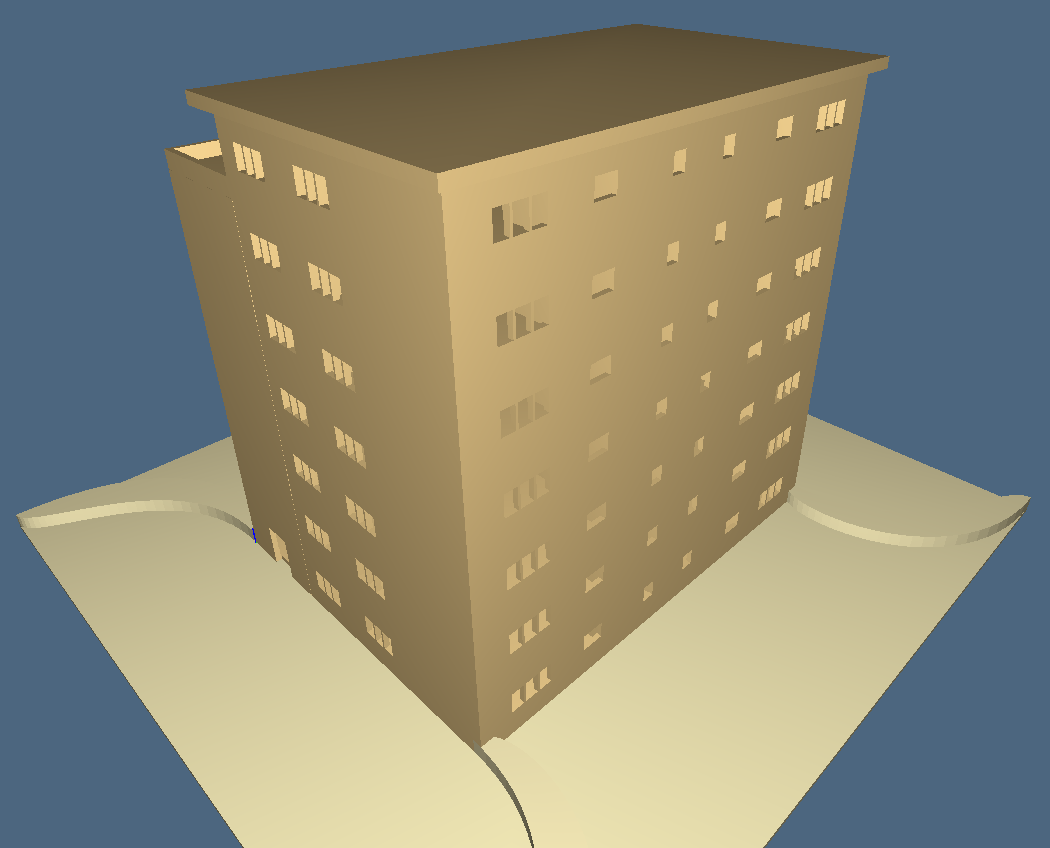
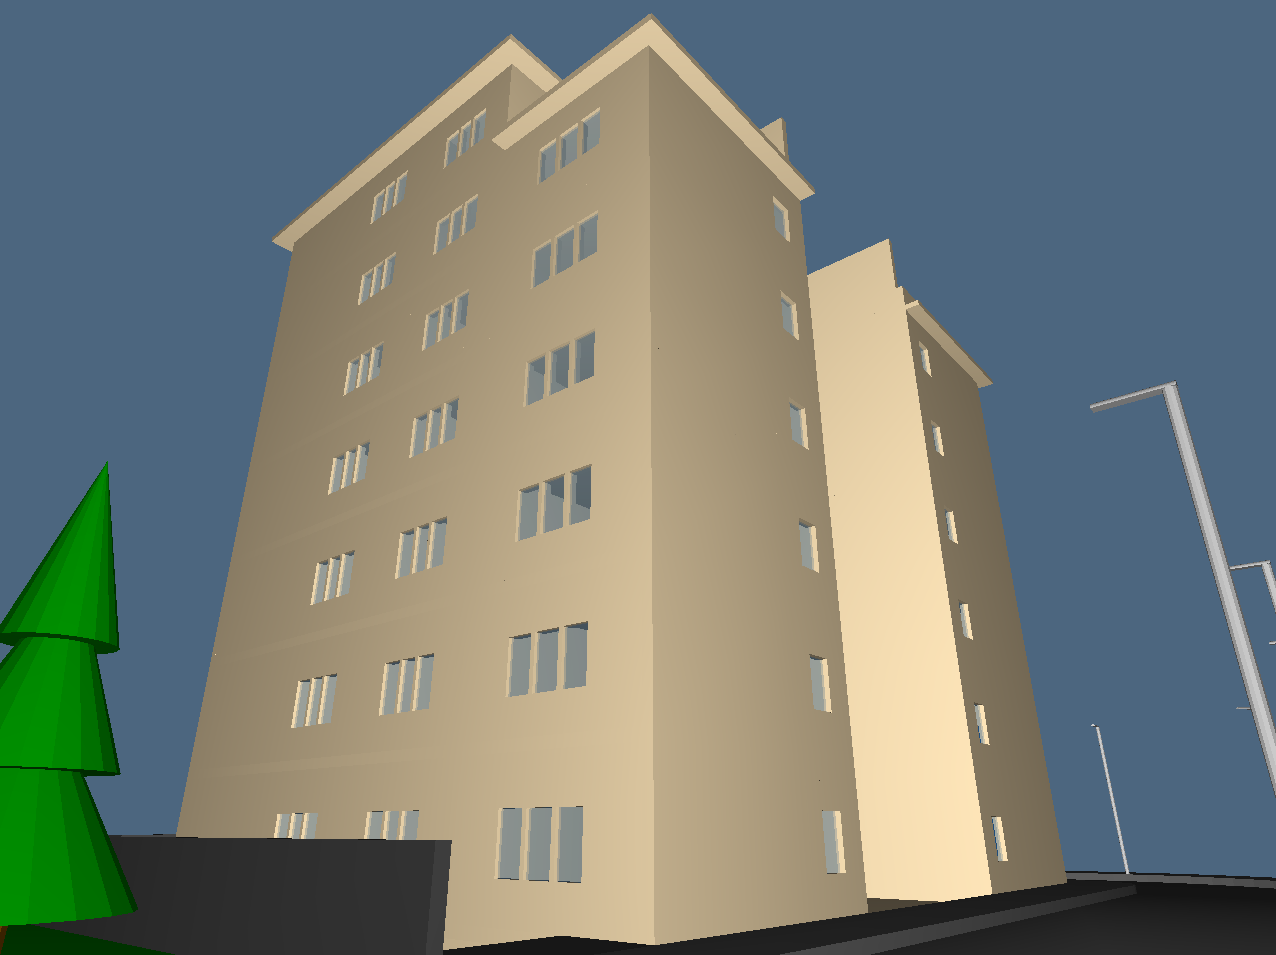
hw3 completed

diff --git a/2014-05-16/index.html b/2014-05-16/index.html
@@ -23,10 +23,11 @@
 			<li>My parents and a meter :)</li>
 		</ul>
 		<h2>Short description</h2>
-		<p style="width:600px;text-align:justify">This third homework is the representation of the place where I live. The first exercise shows only my apartment, with all the rooms, including also the loft (I live at 7th floor). The measurement are as close as possible to reality. The second exercise represents the whole building with all the other apartments along the 7 floors. I added also the elevators to reach each floor.</p>
+		<p style="width:600px;text-align:justify">This third homework is the representation of the place where I live. The first exercise shows only my apartment, with all the rooms, including also the loft (I live at 7th floor). The measurement are as close as possible to reality. The second exercise represents the whole building with all the other apartments along the 7 floors. I added stairs to reach each floor. All around the building I made a street with some lamps. Behind the building there are some trees and grass. At floor 0 I added also some garages.</p>
 		<h2>Images</h2>
-		<img width="40%" height="40%" src="images/fig01.png"> <img width="40%" height="40%" src="images/fig02.png"><br />
-		<img width="40%" height="40%" src="images/fig03.png"> <img width="40%" height="40%" src="images/fig04.png">
+		<img width="40%" height="40%" src="images/fig01.png"> <img width="40%" height="40%" src="images/fig04.png"><br />
+		<img width="40%" height="40%" src="images/fig02.png"> <img width="40%" height="40%" src="images/fig03.png"><br />
+		<img width="40%" height="40%" src="images/fig06.png"> <img width="40%" height="40%" src="images/fig05.png"><br />
 		<h2>Links to Python files</h2>
 		<ul>
 			<li><a href="python/exercise1.py">Exercise 1</a></li>

diff --git a/2014-05-16/python/exercise2.py b/2014-05-16/python/exercise2.py
@@ -264,7 +264,17 @@ cornice = DIFFERENCE([cornice1,(roof1)])
 #maindoor fill
 mdfill = CUBOID([2,Ky+we,we])
 mdfill = T([1,2,3])([we+Lx+we,we+Ly+we+Ky+we+we,3.25])(mdfill)
-roof = STRUCT([cornice, roof, mdfill])
+
+cornice2 = CUBOID([0.5,7+wi,0.2])
+cornice2 = T([1,2,3])([-0.5,totY*2-7.15,3.2*7+0.25])(cornice2)
+cornice3 = CUBOID([5+we+0.5,0.5,0.2])
+cornice3 = T([1,2,3])([-0.5,totY*2,3.2*7+0.25])(cornice3)
+cornice23 = STRUCT([cornice2,cornice3])
+
+cornice45 = S([2,1])(-1)(cornice23)
+cornice45 = T([1,2])([0,totY*2])(cornice45)
+
+roof = STRUCT([cornice, roof, mdfill, cornice23, cornice45])
 
 # ----- BUILDING DOOR ----- #
 maindoor1 = CUBOID([0.5,1.5,2])
@@ -369,6 +379,14 @@ gwcorner2 = T([1,2])([totX,totY*2])(gwcorner2)
 gwcorner = DIFFERENCE([gwcorner2,gwcornerR])
 
 gw = STRUCT([gw1,gw2,gwcorner])
+
+gardoor1 = CUBOID([3.5,0.05,2])
+gardoor1 = T([1,2,3])([10,totY*2-wi,0.9])(gardoor1)
+gardoor2 = CUBOID([0.05,8,2])
+gardoor2 = T([1,2,3])([totX-0.1,totY+1.4,0.6])(gardoor2)
+
+gardoors = STRUCT([gardoor1,gardoor2])
+
 gars = STRUCT([gw,gs,ramps])
 
 # ----- GRASS ----- #
@@ -381,6 +399,23 @@ grass3 = JOIN(AA(MK)(ptsgrass))
 grass3 = PROD([grass3, Q(3.25)])
 
 grass = STRUCT([grass1,grass2,grass3])
+
+# ----- TREES ----- #
+BROWN1 = rgb([110, 65, 0])
+GREEN2 = rgb([0, 150, 0])
+trunk = COLOR(BROWN1)(CYLINDER([0.25,2])(10))
+foliage0 = T(3)(1.25)(CONE([1.5,2.5])(20))
+foliage1 = T(3)(2.75)(CONE([1,2.5])(20))
+foliage2 = T(3)(4.25)(CONE([0.67,2.5])(20))
+foliage = COLOR(GREEN2)(STRUCT([foliage0,foliage1,foliage2]))
+
+tree = STRUCT([trunk,foliage])
+tree = T([1,2,3])([3,totY*2+8,3])(tree)
+
+trees1 = STRUCT(NN(3)([tree,T([1])([6])]))
+trees2 = R([1,2])(PI/2)(trees1)
+trees2 = T([1,2])([55,0])(trees2)
+trees = STRUCT([trees1,trees2])
 
 # ----- STREET LAMPS ----- #
 slamp1 = CYLINDER([0.07,6])(12)
@@ -418,7 +453,11 @@ wglass6 = MATERIAL(glass_mat)(wglass6)
 
 wglass7 = T([2])([10.5])(wglass6)
 
-wglass = STRUCT([wglass1,wglass2,wglass3,wglass4,wglass5,wglass6,wglass7])
+mdglass1 = CUBOID([0.05,2,2])
+mdglass1 = T([1,2,3])([we+Lx+we-0.125,we+Ly+we+Ky+Ky/2,3.25])(mdglass1)
+mdglass1 = MATERIAL([0,0,0,1, 0,0,0,0.4, 0,0,0,1, 0,0,0,1, 100])(mdglass1)
+
+wglass = STRUCT([wglass1,wglass2,wglass3,wglass4,wglass5,wglass6,wglass7,mdglass1])
 
 # ----- CROSSWALKS ----- #
 crwalk1 = CUBOID([0.6,4.5,0.01])
@@ -437,11 +476,11 @@ roof = COLOR(OCRA1)(roof)
 street = COLOR(BLACK1)(street)
 sidewalk = COLOR(BLACK2)(sidewalk)
 gars = COLOR(BLACK1)(gars)
+gardoors = COLOR(GREY1)(gardoors)
 grass = COLOR(GREEN1)(grass)
 slamps = COLOR(GREY1)(slamps)
 
 totalview = STRUCT(totalview)
 totalview = COLOR(OCRA1)(totalview)
 
-
-VIEW(STRUCT([totalview, stairs, roof, street, sidewalk, gars, grass, slamps, crwalks, wglass]))
+VIEW(STRUCT([totalview, stairs, roof, street, sidewalk, gars, gardoors, grass, trees, slamps, crwalks, wglass]))
